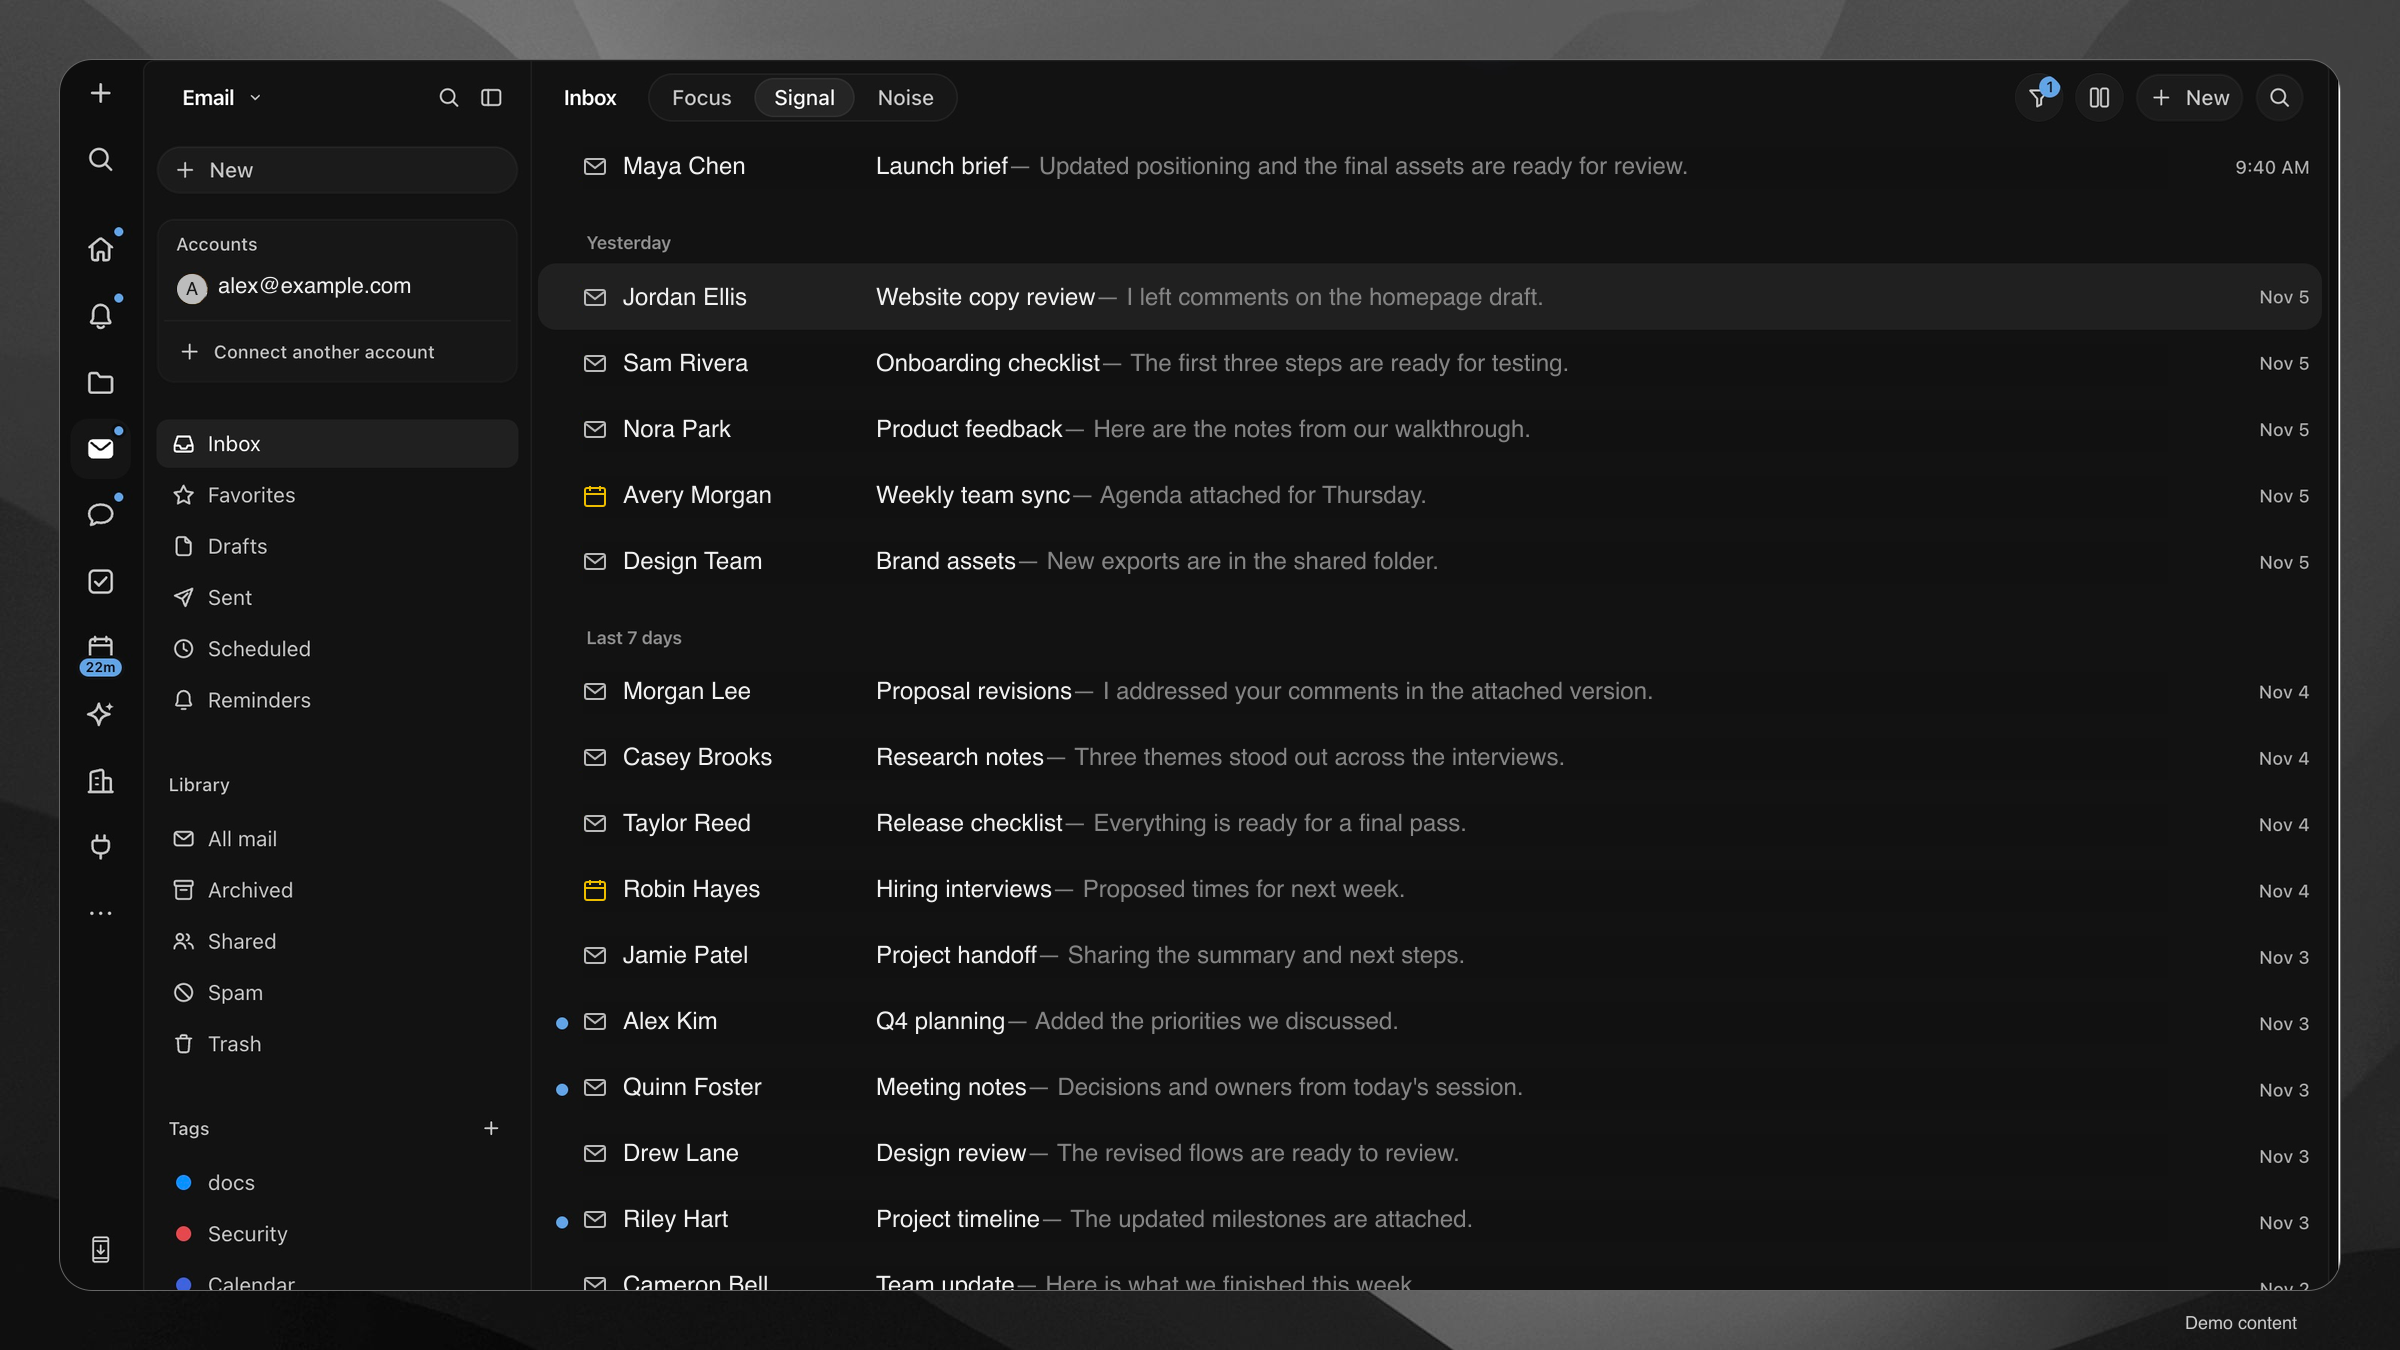
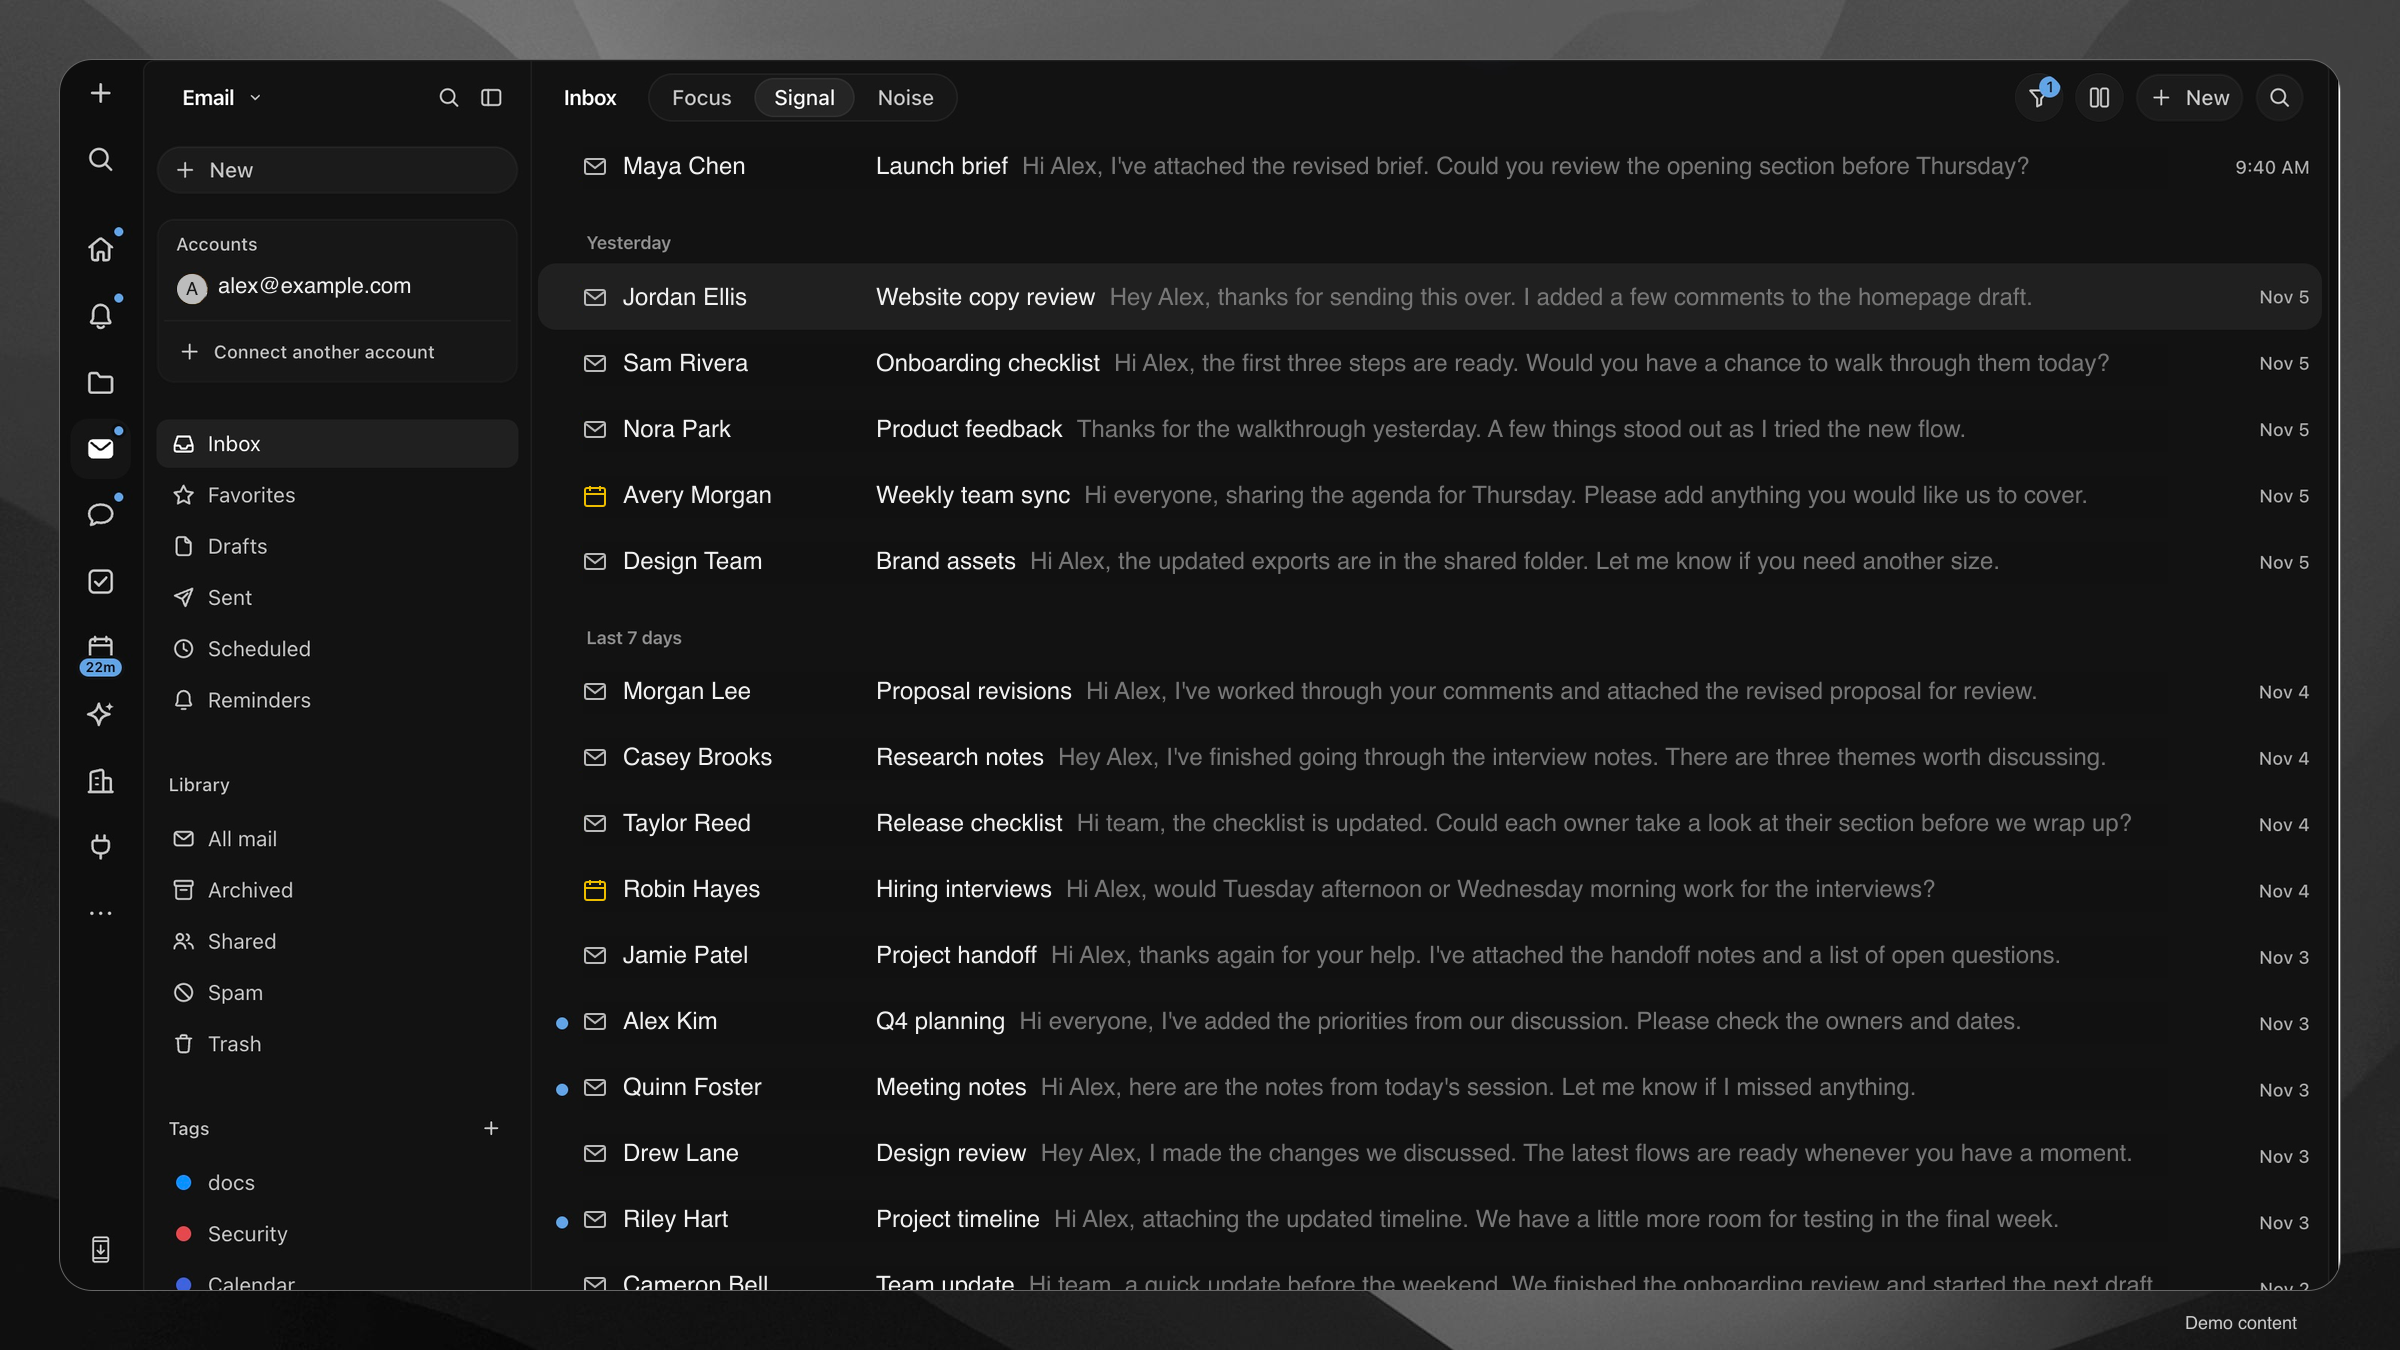
docs(readme): match native email subject previews
Why: Demo rows used added separators and summary-like previews.

What: Show muted email-body openings directly beside subjects with spacing only.

diff --git a/.github/readme/README.md b/.github/readme/README.md
@@ -48,7 +48,8 @@ edits below; the remaining screenshots retain their original product content.
 - Email: labeled demo correspondence in the Signal inbox. Fictional sender names,
   subjects, previews, row-type icons, and account identity replace real email
   content. Navigation, controls, row spacing, dates, and framing retain the
-  original capture pixels.
+  original capture pixels. Use a normal subject followed by muted-gray email-body
+  opening text, separated by spacing only; do not add a dash or a second title.
 - Chat: the November 4 feature-request conversation, distinct from the header.
 - Tasks: restored original split capture with mixed statuses, assigned work, and
   a completed task with its linked discussion and code change.
